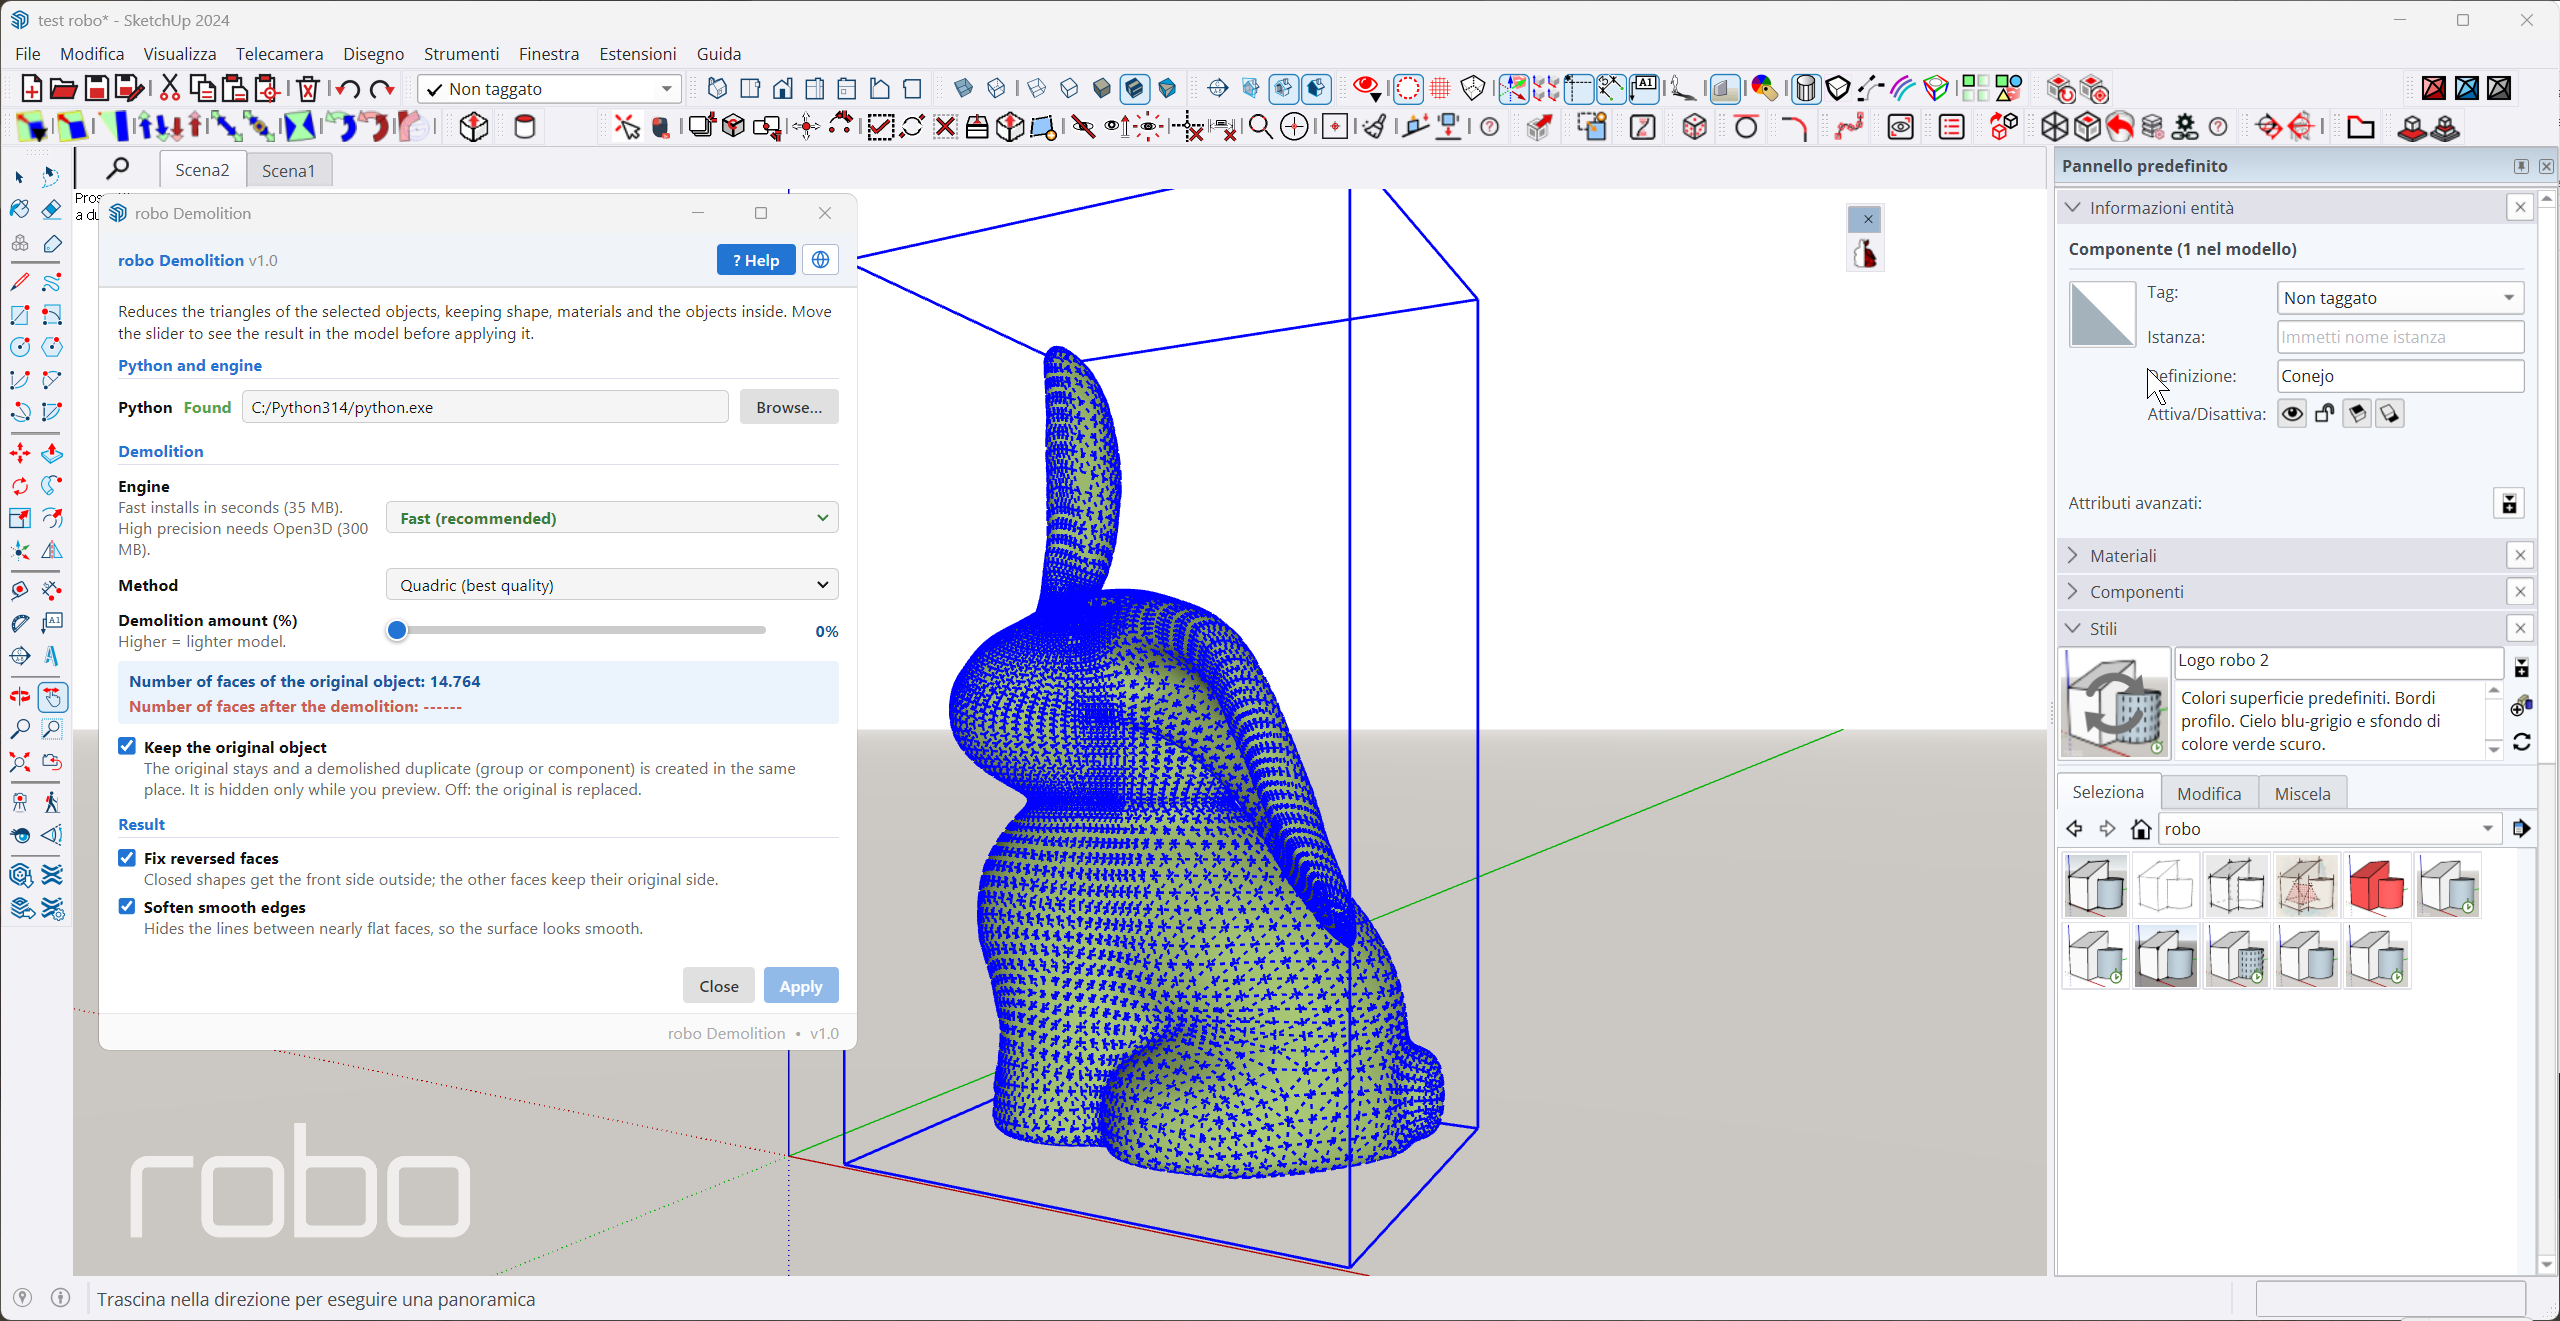
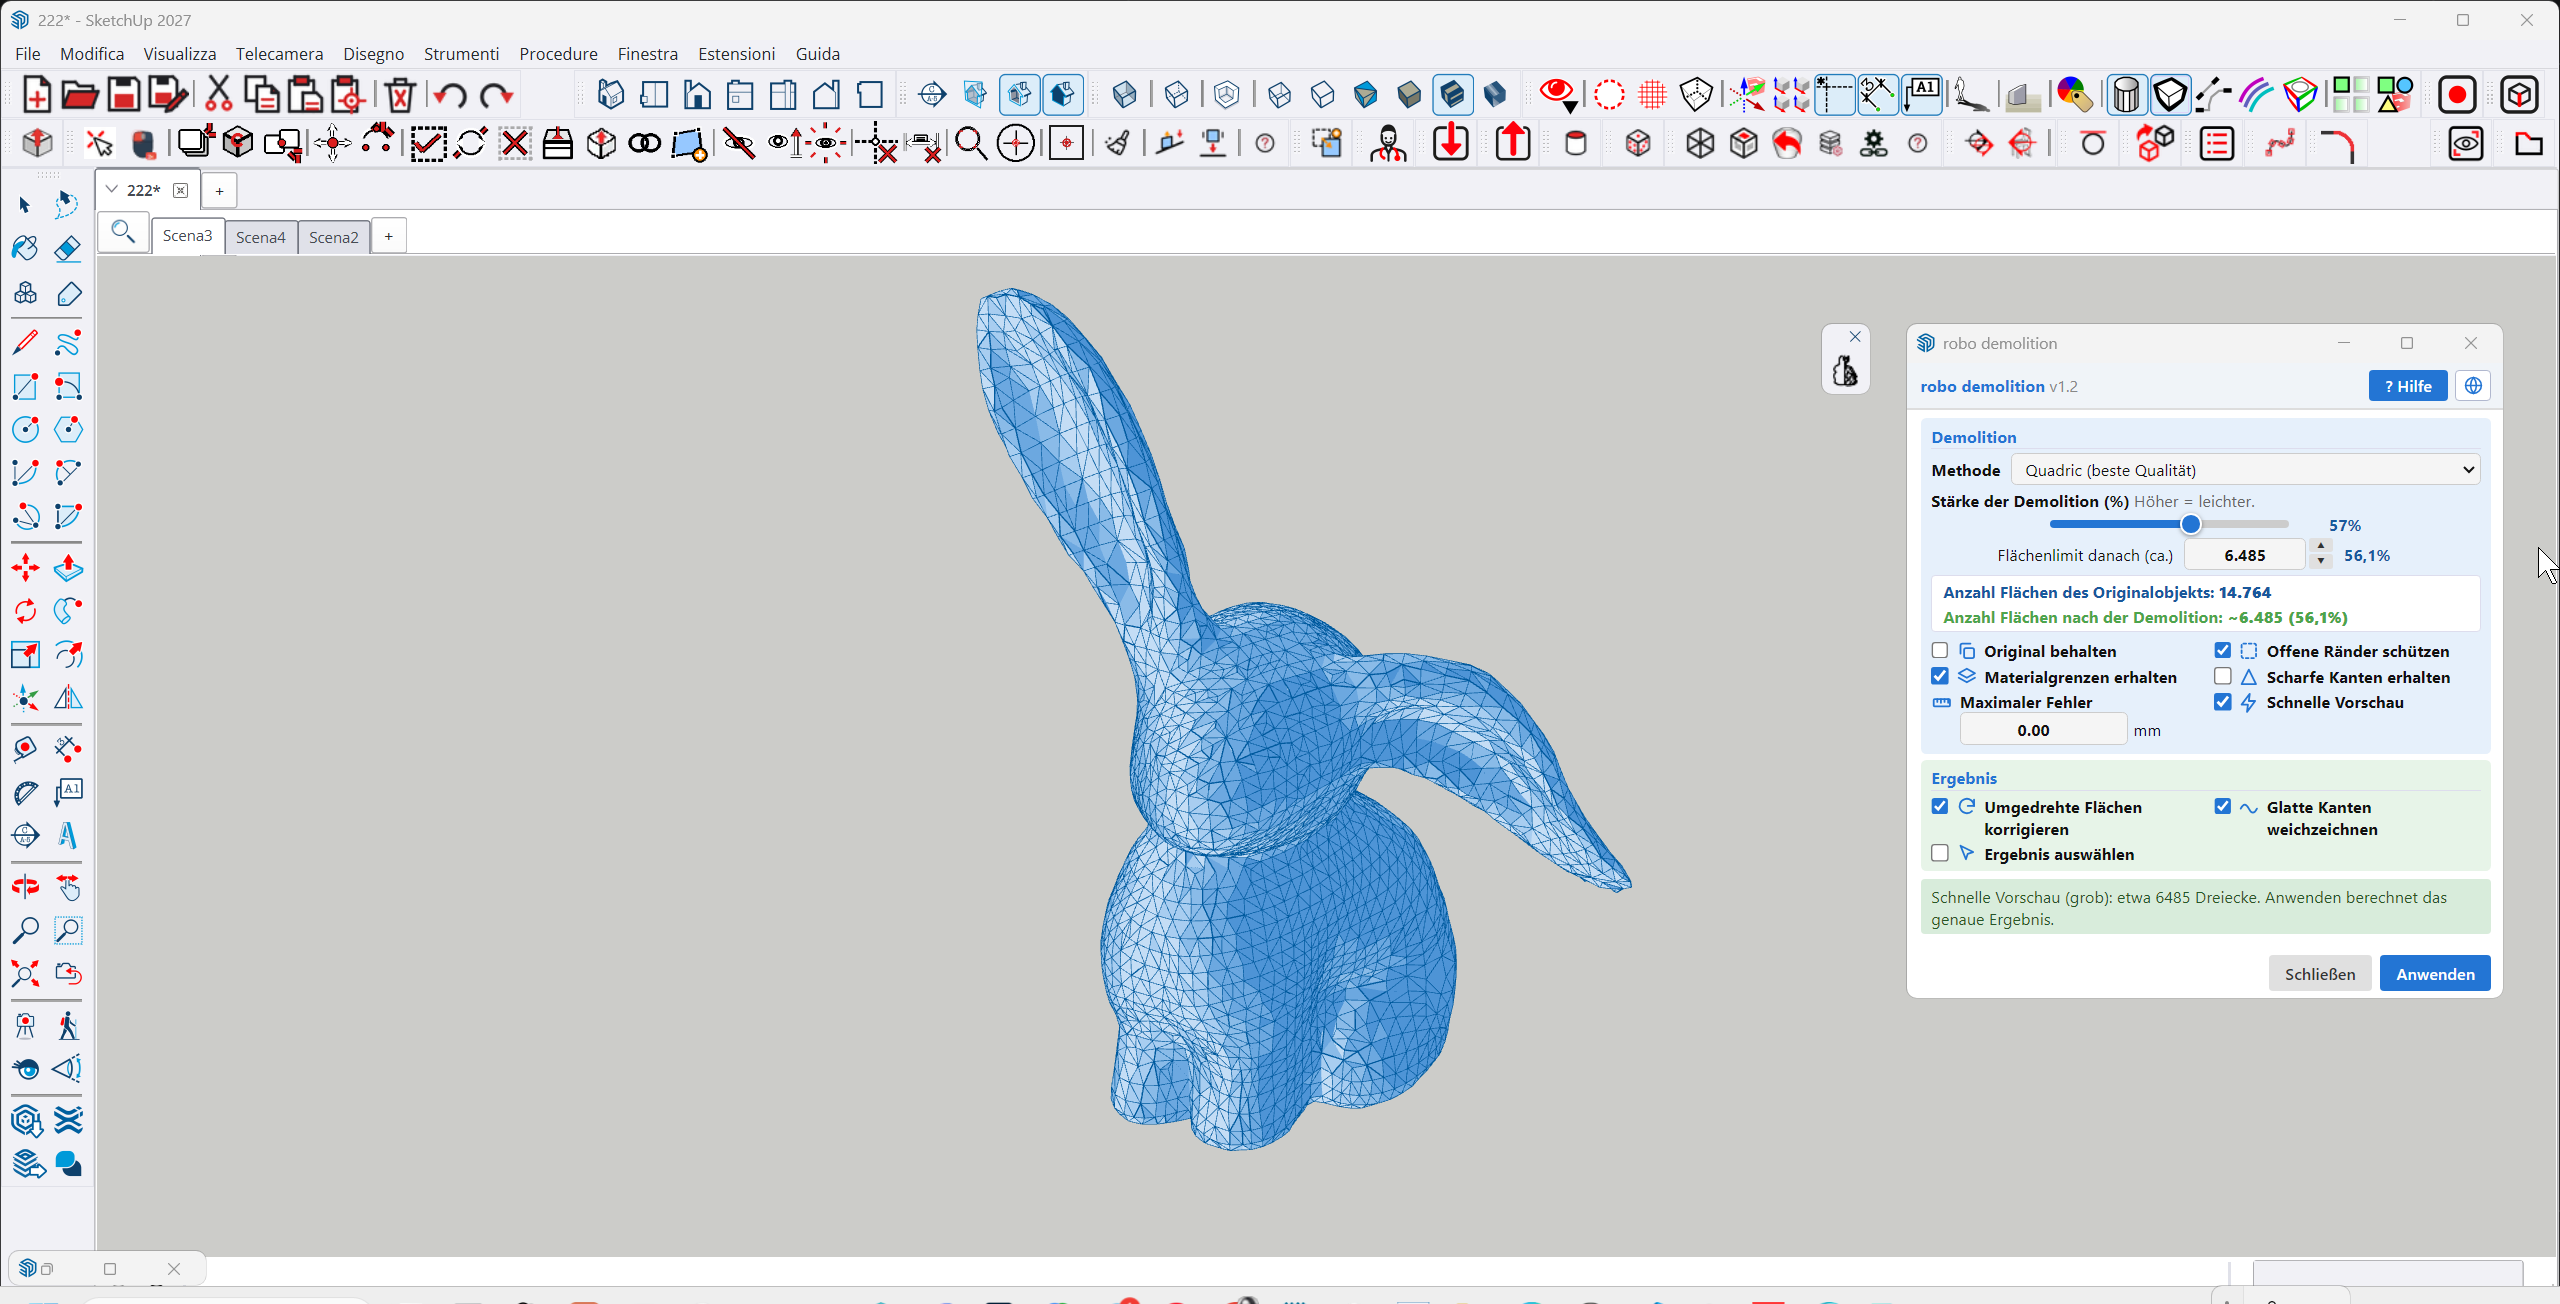
robo demolition: nuove immagini e video sul sito

diff --git a/assets/js/i18n.js b/assets/js/i18n.js
@@ -362,3 +362,16 @@ var I18N_UI = {
 var I18N_PLUGINS = { en: {}, de: {}, fr: {}, es: {} };
 /* Traduzioni delle etichette dei pulsanti nella barra strumenti (vedi data.js/TOOLBARS). */
 var I18N_TOOLBARS = { en: {}, de: {}, fr: {}, es: {} };
+
+/* I titoli delle sezioni della scheda di un plugin restano sempre in inglese, tranne in italiano (l'originale):
+   in tedesco, francese e spagnolo si usano quelli inglesi. */
+(function () {
+  var keys = ['plugin.about.eyebrow', 'plugin.about.h2', 'plugin.about.main', 'plugin.simple.eyebrow', 'plugin.simple.h2',
+    'plugin.tech.eyebrow', 'plugin.tech.h2', 'plugin.pros.eyebrow', 'plugin.pros.h2', 'plugin.solve.eyebrow', 'plugin.solve.h2',
+    'plugin.solve.problem', 'plugin.solve.with', 'plugin.specs.eyebrow', 'plugin.specs.h2'];
+  var others = ['de', 'fr', 'es'];
+  for (var i = 0; i < others.length; i++) {
+    if (!I18N_UI[others[i]]) { continue; }
+    for (var k = 0; k < keys.length; k++) { I18N_UI[others[i]][keys[k]] = I18N_UI.en[keys[k]]; }
+  }
+})();

diff --git a/assets/js/data.js b/assets/js/data.js
@@ -96,8 +96,8 @@ var PLUGINS = [
   {
     id: 'demolition', name: 'robo demolition', version: '1.2', category: 'Modellazione', hue: 15,
     noDownload: true, installer: true,
-    video: 'Zgdt30Fkshw',
-    images: ['assets/img/screenshots/demolition-1.png', 'assets/img/screenshots/demolition-2.png', 'assets/img/screenshots/demolition-3.png'],
+    video: 'vXMermVjpUE',
+    images: ['assets/img/screenshots/demolition-1.png', 'assets/img/screenshots/demolition-2.png', 'assets/img/screenshots/demolition-3.png', 'assets/img/screenshots/demolition-4.png', 'assets/img/screenshots/demolition-5.png'],
     tagline: 'Riduce i triangoli di una mesh pesante, mantenendo la forma.',
     simple: 'Seleziona facce, gruppi o componenti pesanti: robo demolition ne mostra in anteprima la versione più leggera, disegnata sul modello, e con una barra decidi quanto demolire. Il motore è incluso nel plugin, non serve installare nulla; gli oggetti interni restano oggetti e i materiali restano al loro posto.',
     intro: [
